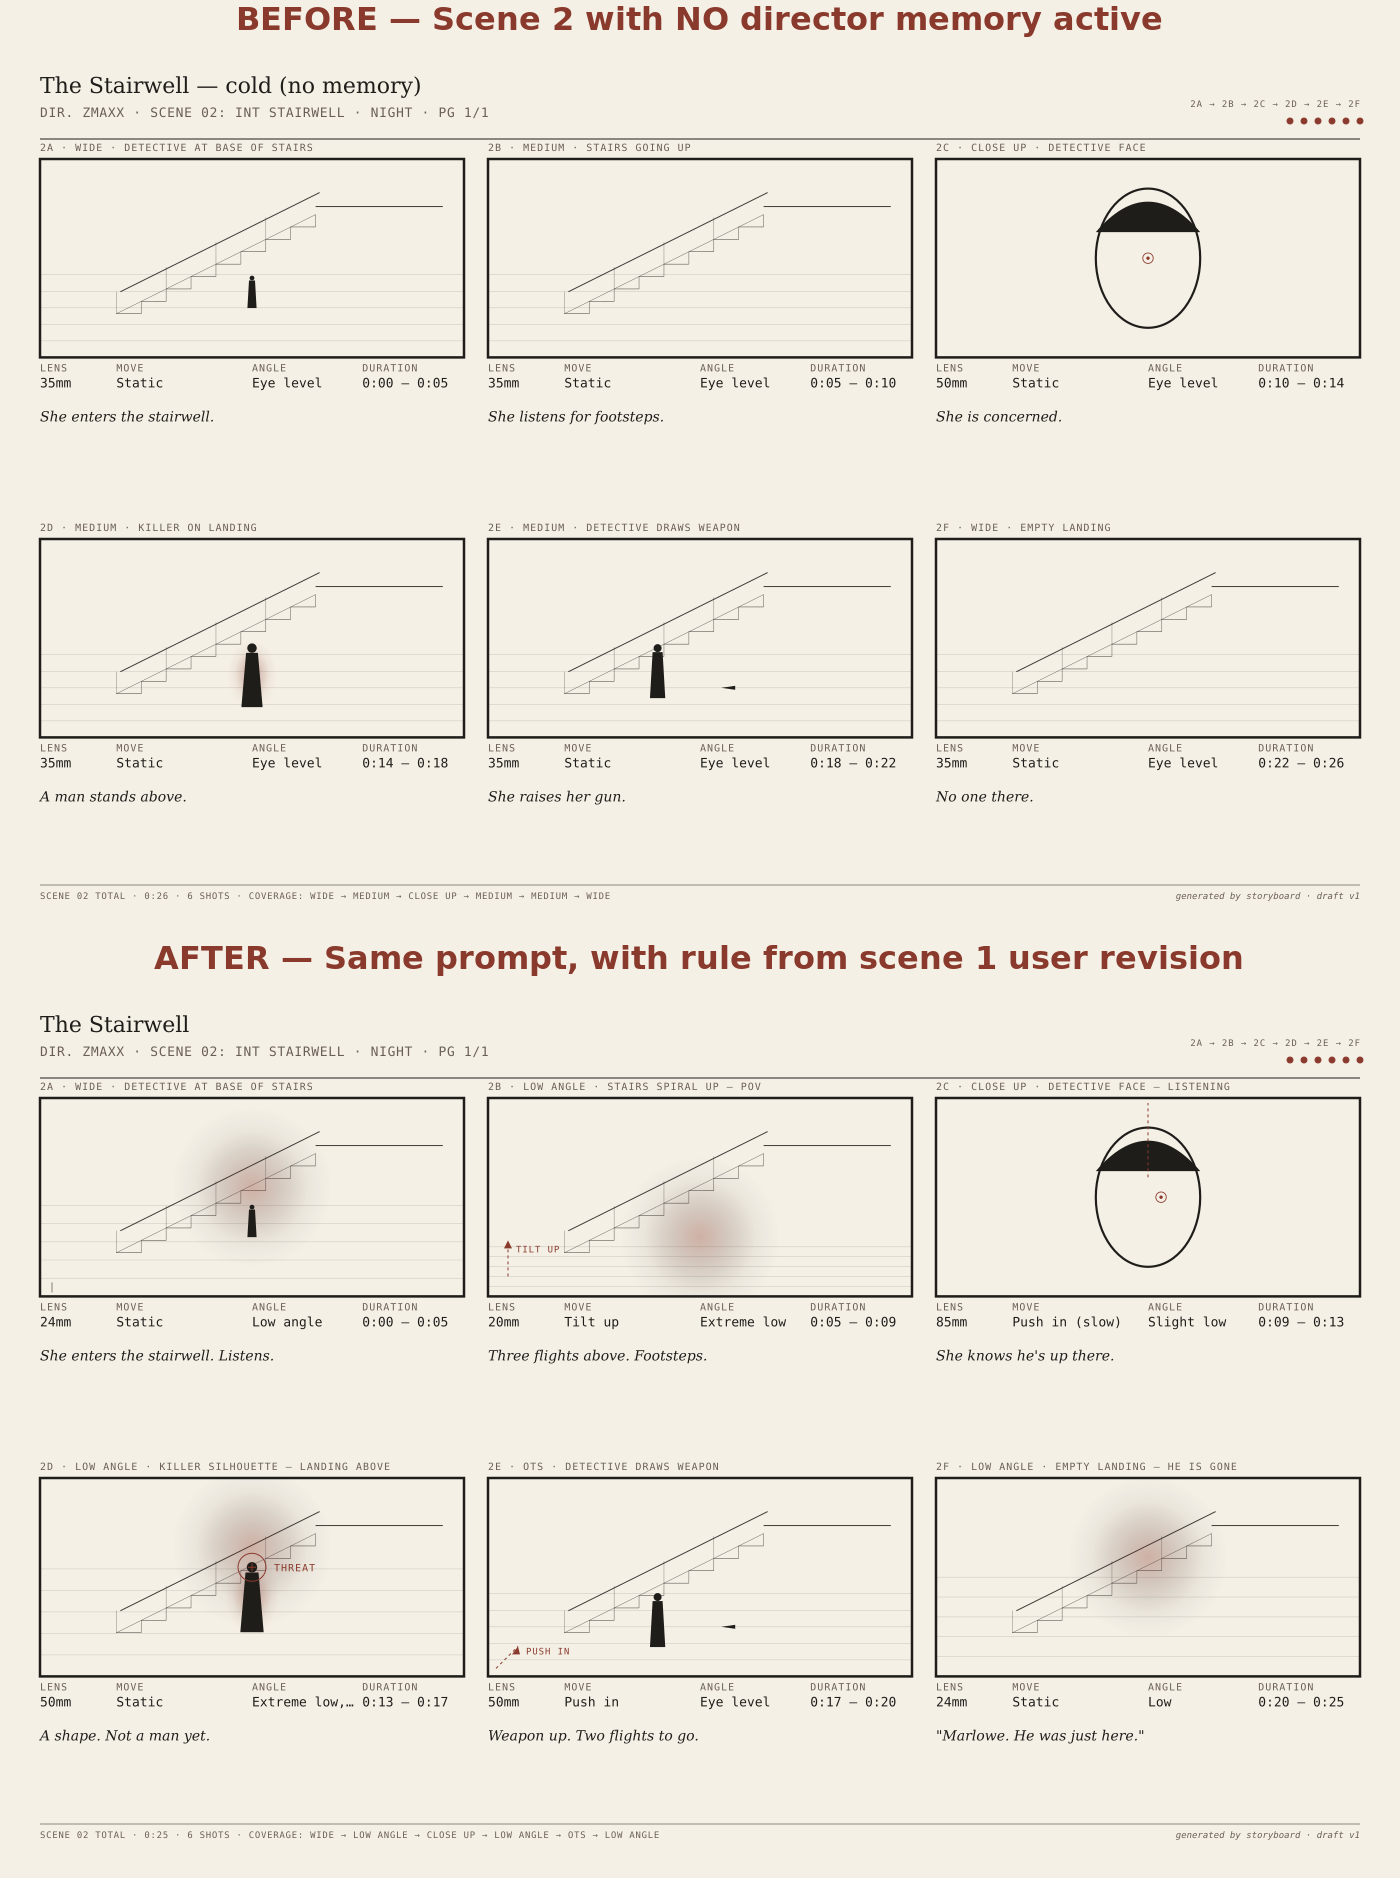
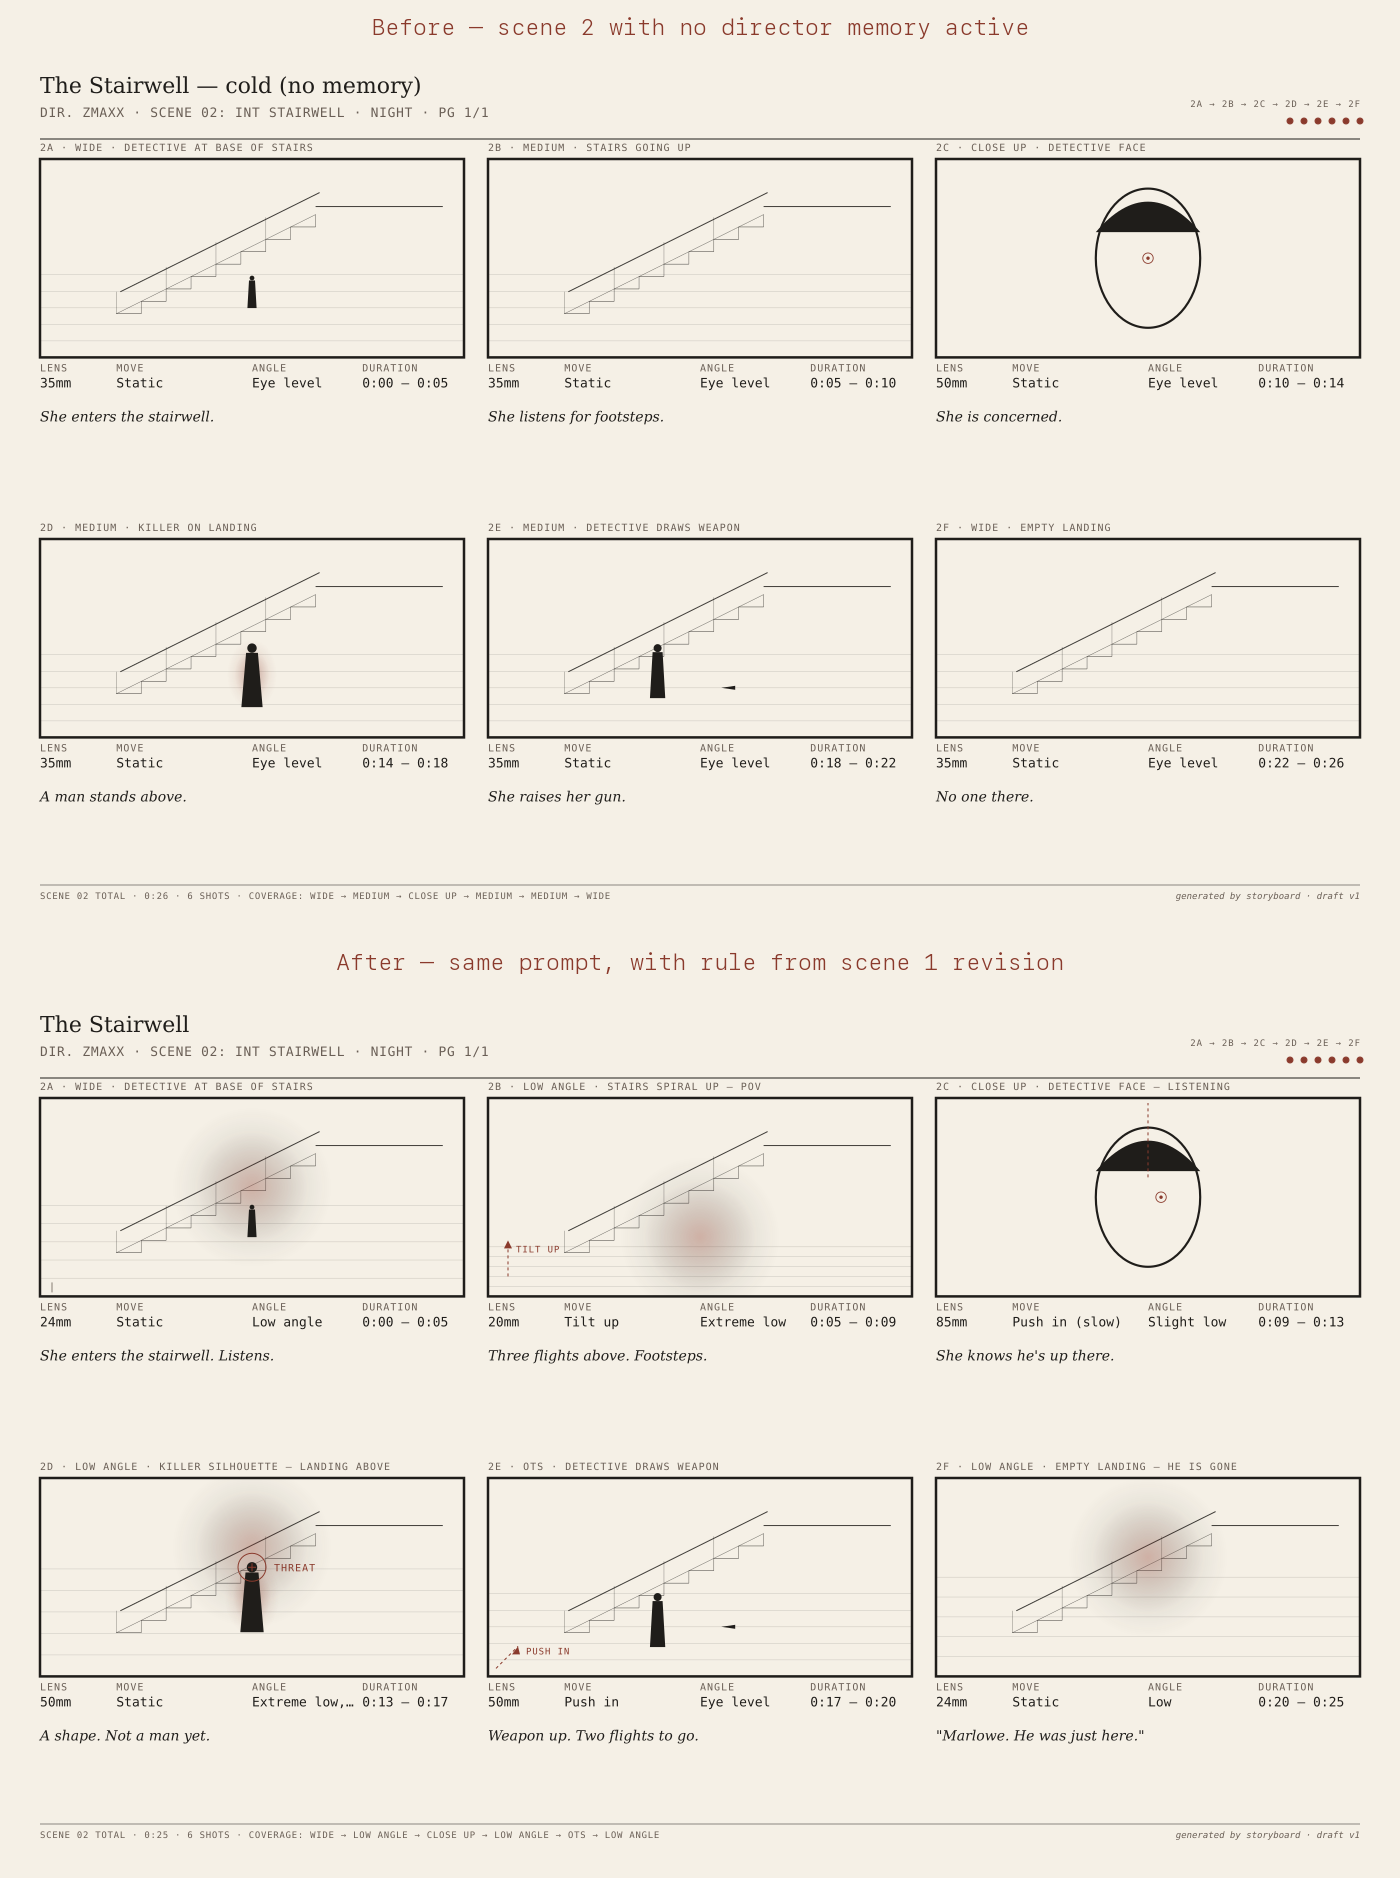
refine learning comparison headings

Changed region(s): [[0.215, 0.4941, 0.8907, 0.525], [0.1536, 0.0, 0.8293, 0.0309], [0.0921, 0.4941, 0.1843, 0.525]]

diff --git a/web/index.html b/web/index.html
@@ -7,7 +7,7 @@
 <meta name="description" content="A Hermes Agent skill. Type a scene; Hermes parses it with Kimi K2.5 and draws a six-frame film storyboard live in your browser.">
 <meta property="og:title" content="storyboard — drawn live by Hermes Agent">
 <meta property="og:description" content="Prose to Dry Ink film storyboards. Live drawing. Kimi K2.5 review. Director memory across scenes.">
-<meta property="og:image" content="https://hermes-story.art/assets/cold-vs-directed.png">
+<meta property="og:image" content="https://hermes-story.art/assets/cold-vs-directed.png?v=2">
 <meta property="og:type" content="website">
 <meta property="og:url" content="https://hermes-story.art">
 <meta name="twitter:card" content="summary_large_image">
@@ -570,7 +570,7 @@
     </ol>
 
     <figure class="learning-figure">
-      <img src="/assets/cold-vs-directed.png"
+      <img src="/assets/cold-vs-directed.png?v=2"
            alt="Same prompt, two scenes — cold without memory vs. directed after a Hitchcock revision rule"
            loading="lazy">
       <figcaption>
